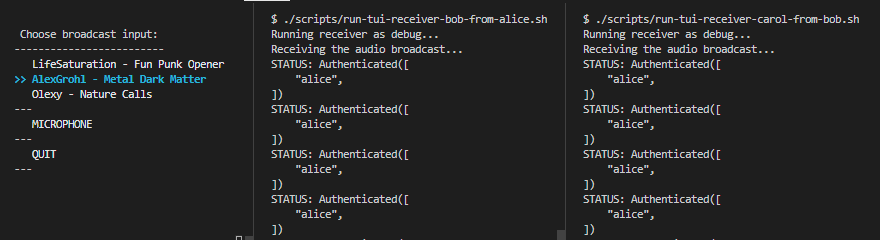
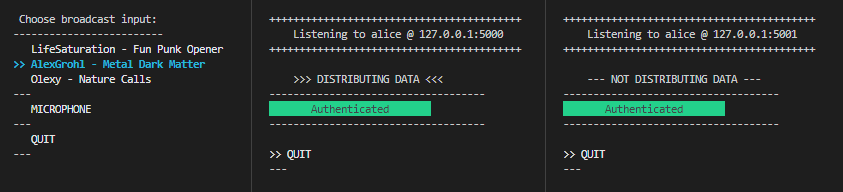
Add TUI also to receivers.

diff --git a/src/tui.rs b/src/tui.rs
@@ -1,6 +1,6 @@
 use std::io::stdout;
 use std::io::Write;
-use std::sync::mpsc::{channel, Sender as MpscSender};
+use std::sync::mpsc::{channel, Receiver as MpscReceiver, Sender as MpscSender};
 use std::time::Duration;
 use std::vec;
 // ---
@@ -13,6 +13,165 @@ use crossterm::{cursor, execute, queue, style};
 use hab::{debug, error, info, log_input, trace, warn};
 // ---
 use crate::audio_source::{AudioFile, AudioSource, AudioSourceData};
+use crate::config;
+
+pub struct TerminalUiReceiver {
+    state_rx: MpscReceiver<String>,
+    addr: String,
+    name: String,
+    distribute: bool,
+}
+
+impl TerminalUiReceiver {
+    pub fn new(
+        state_rx: MpscReceiver<String>,
+        addr: String,
+        name: String,
+        distribute: bool,
+    ) -> Self {
+        Self {
+            state_rx,
+            addr,
+            name,
+            distribute,
+        }
+    }
+
+    pub fn run_tui(&self) {
+        let menu_items = vec![vec!["QUIT".into()]];
+        let menu_items_data = vec![vec!["QUIT".into()]];
+        let menu_items_flat = menu_items
+            .clone()
+            .into_iter()
+            .flatten()
+            .collect::<Vec<String>>();
+        let menu_items_data_flat = menu_items_data
+            .into_iter()
+            .flatten()
+            .collect::<Vec<String>>();
+
+        let mut selected_item: usize = 0;
+        let mut active_item = None;
+
+        let mut changed = true;
+        let mut auth_state = config::WAITING_FOR_DATA.to_string();
+
+        enable_raw_mode().unwrap();
+        let mut stdout = stdout();
+        execute!(stdout, Clear(ClearType::All)).unwrap();
+        loop {
+            if let Ok(state) = self.state_rx.try_recv() {
+                auth_state = state;
+                changed = true;
+            }
+            if changed {
+                let distr_string = if self.distribute {
+                    "    >>> DISTRIBUTING DATA <<<"
+                } else {
+                    "    --- NOT DISTRIBUTING DATA ---"
+                };
+                let state_string = match auth_state.as_str() {
+                    "Authenticated" => format!("       {}       ", auth_state)
+                        .white()
+                        .on(Color::Green),
+                    "Certified" => format!("       {}       ", auth_state)
+                        .white()
+                        .on(Color::Yellow),
+                    "Unverified" => format!("       {}       ", auth_state)
+                        .white()
+                        .on(Color::Red),
+                    _ => format!("       {}       ", auth_state).white(),
+                };
+                queue!(
+                    stdout,
+                    style::ResetColor,
+                    terminal::Clear(ClearType::All),
+                    cursor::Hide,
+                    cursor::MoveTo(0, 1),
+                    style::Print("++++++++++++++++++++++++++++++++++++++++++"),
+                    cursor::MoveToNextLine(1),
+                    style::Print(format!("    Listening to {} @ {}", self.name, self.addr)),
+                    cursor::MoveToNextLine(1),
+                    style::Print("++++++++++++++++++++++++++++++++++++++++++"),
+                    cursor::MoveToNextLine(2),
+                    style::Print(distr_string),
+                    cursor::MoveToNextLine(1),
+                    style::Print("------------------------------------"),
+                    cursor::MoveToNextLine(1),
+                    style::PrintStyledContent(state_string),
+                    cursor::MoveToNextLine(1),
+                    style::Print("------------------------------------"),
+                    cursor::MoveToNextLine(2),
+                )
+                .unwrap();
+
+                let mut i = 0;
+                for items in menu_items.iter() {
+                    for item in items.iter() {
+                        let cursor = if i == selected_item { ">>" } else { "  " };
+                        let active = if let Some(x) = active_item {
+                            if i == x {
+                                let cursor = if i == selected_item { ">>" } else { "->" };
+                                style::PrintStyledContent(
+                                    format!("{} {} ", cursor, item)
+                                        .with(Color::Cyan)
+                                        .attribute(Attribute::Bold),
+                                )
+                            } else {
+                                style::PrintStyledContent(format!("{} {}", cursor, item).white())
+                            }
+                        } else {
+                            style::PrintStyledContent(format!("{} {}", cursor, item).white())
+                        };
+                        queue!(stdout, active, cursor::MoveToNextLine(1)).unwrap();
+                        i += 1;
+                    }
+                    queue!(stdout, style::Print("---"), cursor::MoveToNextLine(1)).unwrap();
+                }
+                stdout.flush().unwrap();
+                changed = false;
+            }
+
+            if let Some(x) = read_action() {
+                match x {
+                    KeyCode::Up => {
+                        selected_item = selected_item.saturating_sub(1);
+                    }
+                    KeyCode::Down => {
+                        if selected_item < menu_items_flat.len() - 1 {
+                            selected_item += 1;
+                        }
+                    }
+                    KeyCode::Enter => {
+                        self.process_menu_item(&menu_items_data_flat[selected_item]);
+                        active_item = Some(selected_item);
+                    }
+                    KeyCode::Char('q') => break,
+                    _ => {}
+                };
+                changed = true;
+            }
+        }
+        execute!(
+            stdout,
+            style::ResetColor,
+            terminal::Clear(ClearType::All),
+            cursor::Show,
+            terminal::LeaveAlternateScreen
+        )
+        .unwrap();
+        disable_raw_mode().unwrap();
+        self.process_menu_item("QUIT");
+    }
+
+    fn process_menu_item(&self, item: &str) {
+        info!("Processing menu item: {}", item);
+
+        if item == "QUIT" {
+            std::process::exit(0x01);
+        }
+    }
+}
 
 pub struct TerminalUi {
     _audio_src: AudioSource,
@@ -48,7 +207,7 @@ impl TerminalUi {
             .flatten()
             .collect::<Vec<String>>();
 
-        let mut selected_item:usize = 0;
+        let mut selected_item: usize = 0;
         let mut active_item = None;
 
         let mut changed = true;
@@ -96,7 +255,7 @@ impl TerminalUi {
                 changed = false;
             }
 
-            if let Some(x) = Self::read_action() {
+            if let Some(x) = read_action() {
                 match x {
                     KeyCode::Up => {
                         selected_item = selected_item.saturating_sub(1);
@@ -140,15 +299,15 @@ impl TerminalUi {
             Err(e) => info!("ERROR: {e}"),
         };
     }
+}
 
-    pub fn read_action() -> Option<KeyCode> {
-        if event::poll(Duration::from_millis(500)).unwrap() {
-            if let Ok(Event::Key(ev)) = event::read() {
-                if let KeyEventKind::Press = ev.kind {
-                    return Some(ev.code);
-                }
+pub fn read_action() -> Option<KeyCode> {
+    if event::poll(Duration::from_millis(500)).unwrap() {
+        if let Ok(Event::Key(ev)) = event::read() {
+            if let KeyEventKind::Press = ev.kind {
+                return Some(ev.code);
             }
         }
-        None
     }
+    None
 }

diff --git a/src/receiver.rs b/src/receiver.rs
@@ -7,6 +7,7 @@ use hab::{utils, Receiver, ReceiverParams, ReceiverTrait};
 use rodio::Decoder as RodioDecoder;
 use std::io::{stdout, Write};
 use std::sync::atomic::{AtomicBool, Ordering};
+use std::sync::mpsc::channel;
 use std::sync::Arc;
 use std::time::Duration;
 // ---
@@ -14,8 +15,9 @@ use std::time::Duration;
 #[allow(unused_imports)]
 use hab::{debug, error, info, trace, warn};
 
-use crate::config::SignerInst;
+use crate::config::{self, SignerInst};
 use crate::sliding_buffer::SlidingBuffer;
+use crate::tui::TerminalUiReceiver;
 
 #[derive(Debug)]
 pub struct AudiBroReceiverParams {
@@ -63,28 +65,43 @@ impl AudiBroReceiver {
         let my_buffer = SlidingBuffer::new();
         let my_buffer_clone = my_buffer.clone();
 
+        let (tx, rx) = channel();
+        let tx_clone = tx.clone();
+
         if self.params.tui {
             println!("Receiving the audio broadcast...");
             std::thread::spawn(move || {
-				let (_stream, handle) = rodio::OutputStream::try_default().unwrap();
-				let sink = rodio::Sink::try_new(&handle).unwrap();
-				loop {
-					let buffer_to_play = my_buffer.clone();
+                let (_stream, handle) = rodio::OutputStream::try_default().unwrap();
+                let sink = rodio::Sink::try_new(&handle).unwrap();
+                loop {
+                    let buffer_to_play = my_buffer.clone();
 
+                    let source = match RodioDecoder::new(buffer_to_play) {
+                        Ok(x) => x,
+                        Err(_) => {
+                            if let Err(_) = tx_clone.send(config::WAITING_FOR_DATA.to_string()) {}
+                            std::thread::sleep(Duration::from_millis(500));
+                            continue;
+                        }
+                    };
 
-                let source = match RodioDecoder::new(buffer_to_play) {
-                    Ok(x) => x,
-                    Err(_) => {
-                        println!("Buffering...");
-                        std::thread::sleep(Duration::from_millis(500));
-                        continue;
-                    }
-                };
+                    sink.append(source);
+                    sink.sleep_until_end();
+                }
+            });
+        }
 
-                sink.append(source);
-                sink.sleep_until_end();
-            }}
-		);
+        let is_distributor = self.params.distribute.is_some();
+        let addr = self.params.target_addr.clone();
+        let target_name = self.params.target_name.clone();
+
+        // If should run with TUI
+        if self.params.tui {
+            std::thread::spawn(move || {
+                // Run the UI
+                let tui = TerminalUiReceiver::new(rx, addr, target_name, is_distributor);
+                tui.run_tui();
+            });
         }
 
         // The main loop as long as the app should run
@@ -101,7 +118,14 @@ impl AudiBroReceiver {
             if self.params.tui {
                 my_buffer_clone.append(&received_block.message);
 
-                println!("STATUS: {}", received_block.authentication);
+                info!(tag:"receiver", "STATUS: {}", received_block.authentication);
+
+                let state_str = match received_block.authentication {
+                    MessageAuthentication::Authenticated(_) => "Authenticated",
+                    MessageAuthentication::Certified(_) => "Certified",
+                    MessageAuthentication::Unverified => "Unverified",
+                };
+                tx.send(state_str.to_string()).unwrap();
             } else {
                 let mut handle = stdout().lock();
 

diff --git a/src/audio_source.rs b/src/audio_source.rs
@@ -10,7 +10,7 @@ use cpal::{
     Device, SupportedStreamConfig,
 };
 use minimp3::{Decoder, Frame};
-use mp3lame_encoder::{Builder, FlushNoGap, InterleavedPcm, Encoder};
+use mp3lame_encoder::{Builder, Encoder, FlushNoGap, InterleavedPcm};
 use std::io::{Cursor, Read};
 use std::{
     fmt::Debug,
@@ -278,7 +278,6 @@ fn build_mp3_encoder(num_channels: u16, sample_rate: u32) -> Encoder {
         .set_quality(mp3lame_encoder::Quality::Best)
         .expect("set quality");
     mp3_encoder.build().expect("To initialize LAME encoder")
-    
 }
 
 fn run<T>(

diff --git a/src/config.rs b/src/config.rs
@@ -11,6 +11,11 @@ use hab::{utils, HorstSigScheme};
 // ---
 use crate::config;
 
+pub const WAITING_FOR_DATA: &str = "...waiting for data...";
+// pub const AUTH_LABEL: &str = "Authenticated";
+// pub const CART_LABEL: &str = "Certified";
+// pub const UNVER_LABEL: &str = "Unverified";
+
 /// A directory where we store the logs by default (e.g. when you run `cargo run`)
 pub const LOGS_DIR: &str = "logs/";
 /// A directory for output of signed blocks that the SENDER boradcasts.

diff --git a/README.md b/README.md
@@ -1,6 +1,6 @@
 # AudiBro
 
-> This software is a part of the Master thesis of *Frantisek Mejzlik* titled **Fast hash-based signing protocol for message stream authentication**.
+> This software is an example for new [HAB](https://gitlab.mff.cuni.cz/mejzlikf/hab) library; both are part of the Master thesis of *Frantisek Mejzlik* titled **Fast hash-based signing protocol for message stream authentication**.
 
 **Audi**o **Bro**adcaster is an example application for real-time audio broadcasting. It demonstrates the usage of the [HAB crate](https://gitlab.mff.cuni.cz/mejzlikf/hab) for post-quantum data stream authentication based on hash-based signatures in a real-world scenario.
 
